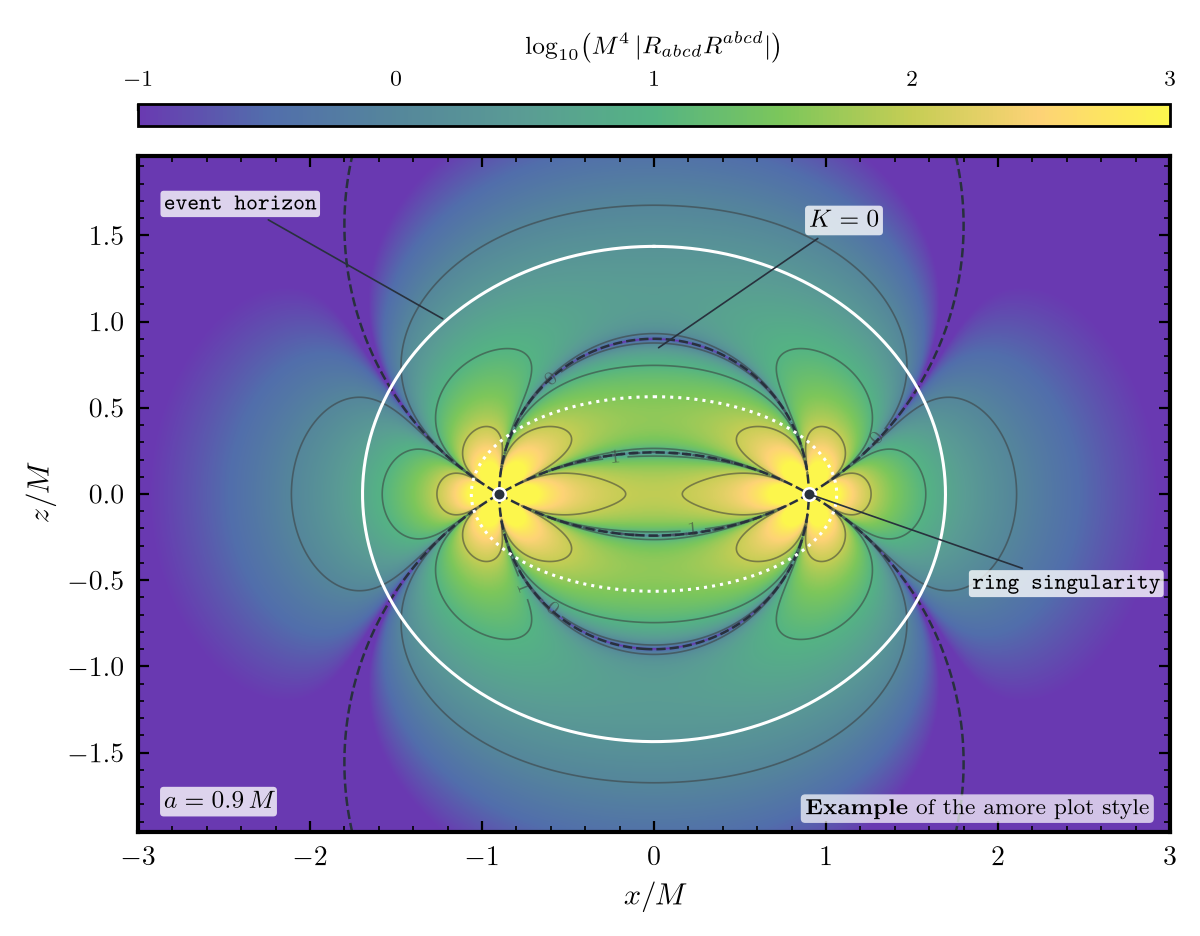
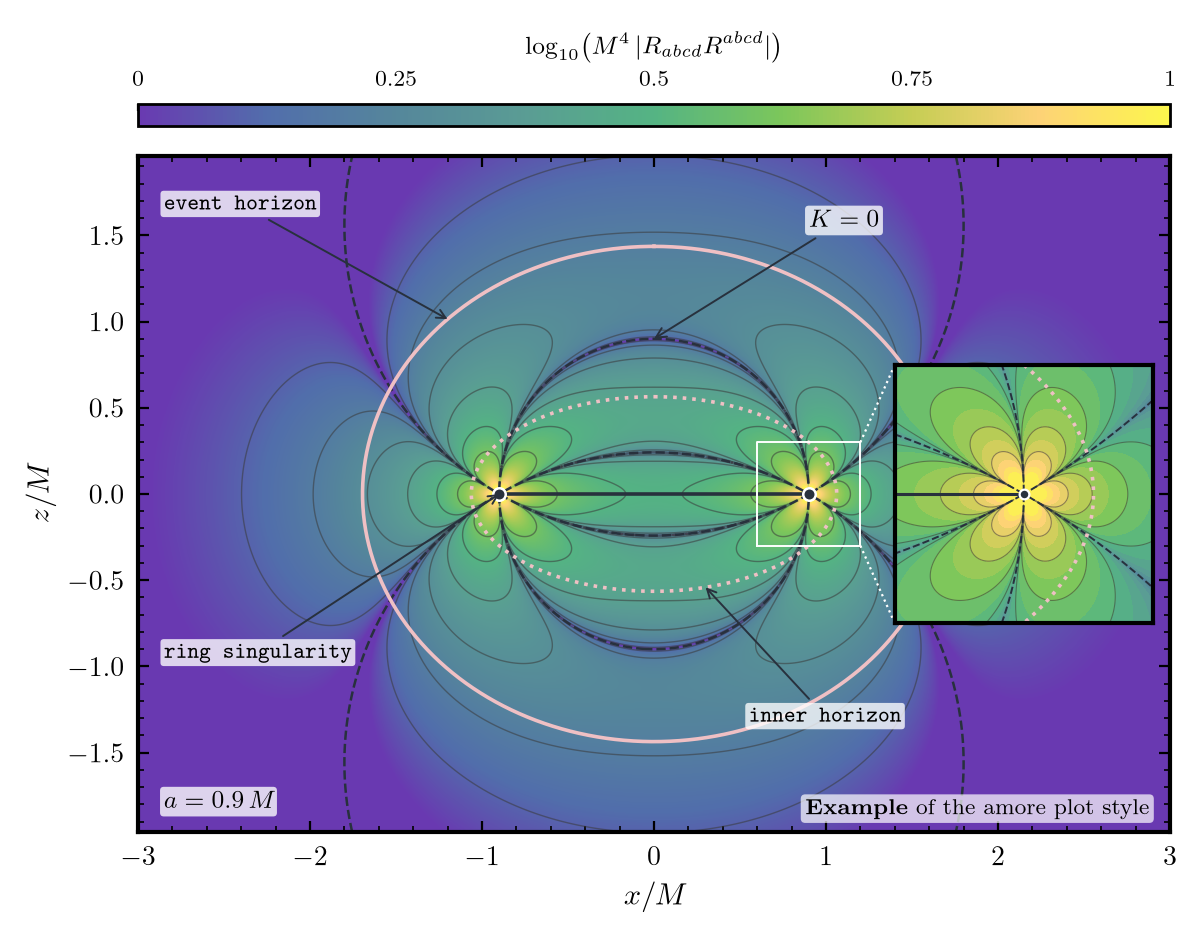
amore example: Kerr inset, shared normalised scale, labelled horizons
- Add an inset: a filled contour plot of the flower at the right ring point.
- The main map and the inset use one normalised scale (0 to 1 for log10|K|
  from -1 to 5), so one colour bar reads both.
- Draw the disk r = 0, the cause of the bends in the contours.
- Label the inner horizon. Draw both horizons in the lightest amore red.
- Point each arrow exactly at its feature. Remove the contour numbers.
- Zoom box white, connector lines white dotted.

Claude-Session: https://claude.ai/code/session_014jvk12Cx7MpCLE6J3t3DqW

diff --git a/src/python/amore/examples.py b/src/python/amore/examples.py
@@ -187,7 +187,15 @@ def kerr_curvature():
 
     in Boyer-Lindquist r and theta. The meridional plane uses x = sqrt(r^2 + a^2) sin(theta) and
     z = r cos(theta). K diverges at the ring singularity (r = 0, theta = pi/2), at x = +-a, z = 0,
-    and changes sign across the dashed curves K = 0. The density is log10 |K|.
+    and changes sign across the dashed curves K = 0. The density is log10 |K| normalised to
+    n = (log10 |K| + 1) / 6, clipped to [0, 1]: n = 0 at |K| = 10^-1 and n = 1 at |K| = 10^5. The
+    colour bar has the label log10(M^4 |R_abcd R^abcd|) and the range 0 to 1; the range shows
+    that the scale is normalised. The main map and the inset (a zoom on the right ring point)
+    share this scale, so one colour bar reads both. The thin contour lines are at n = 0.1 to 0.6
+    in the main map and n = 0.5 to 0.8 in the inset, without numbers. The pale red curves are the
+    event horizon (solid) and the inner horizon (dotted). The segment between
+    the two ring points (|x| < a, z = 0) is the disk r = 0, where the spacetime continues to the
+    sheet r < 0; the plot shows the sheet r >= 0 above and below it, so contours end on the disk.
 
     Source: R. C. Henry, "Kretschmann scalar for a Kerr-Newman black hole", ApJ 535, 350 (2000),
     arXiv:astro-ph/9912320, p. 6, with charge Q = 0; the factor (r^2 - c^2)(...) expands to his
@@ -197,41 +205,89 @@ def kerr_curvature():
     """
     spin = 0.9
     ink = amore.palette("slate")["ink"]
+    # The horizons: the lightest amore red. Red is the one hue that parula does not contain.
+    horizon = dict(color=amore.palette("red")["light"])
+
+    def kretschmann_at(x, z):
+        big = x ** 2 + z ** 2 - spin ** 2
+        r2 = 0.5 * (big + np.sqrt(big ** 2 + 4 * spin ** 2 * z ** 2))
+        c2 = np.where(r2 > 0, spin ** 2 * z ** 2 / np.maximum(r2, 1e-30), spin ** 2)  # a^2 cos^2
+        sigma = r2 + c2
+        return 48 * (r2 - c2) * (sigma ** 2 - 16 * r2 * c2) / sigma ** 6
+
+    def normalised(k):                         # log10 |K| from -1 to 5, mapped to 0 to 1
+        return np.clip((np.log10(np.abs(k) + 1e-30) + 1) / 6, 0, 1)
+
     x, z = np.meshgrid(np.linspace(-3.0, 3.0, 1000), np.linspace(-1.96, 1.96, 654))
-    big = x ** 2 + z ** 2 - spin ** 2
-    r2 = 0.5 * (big + np.sqrt(big ** 2 + 4 * spin ** 2 * z ** 2))
-    c2 = np.where(r2 > 0, spin ** 2 * z ** 2 / np.maximum(r2, 1e-30), spin ** 2)   # a^2 cos^2
-    sigma = r2 + c2
-    kretschmann = 48 * (r2 - c2) * (sigma ** 2 - 16 * r2 * c2) / sigma ** 6
-    field = np.log10(np.abs(kretschmann) + 1e-30)
+    kretschmann = kretschmann_at(x, z)
+    field = normalised(kretschmann)
 
     fig, ax = amore.figure(colorbar=True)
     image = ax.imshow(field, extent=(-3.0, 3.0, -1.96, 1.96), origin="lower", aspect="auto",
-                      cmap=amore.fakeparulapastel(), vmin=-1, vmax=3, interpolation="bilinear")
-    lines = ax.contour(x, z, field, levels=[0, 1, 2], colors=amore.OVERLAY, linewidths=0.6,
-                       alpha=amore.OVERLAY_ALPHA, linestyles="solid")
-    ax.clabel(lines, levels=[0, 1], fmt=r"$%d$", fontsize=7, inline=True)
+                      cmap=amore.fakeparulapastel(), vmin=0, vmax=1, interpolation="bilinear")
+    ax.contour(x, z, field, levels=np.arange(0.1, 0.65, 0.1), colors=amore.OVERLAY,
+                       linewidths=0.5, alpha=amore.OVERLAY_ALPHA, linestyles="solid")
     ax.contour(x, z, kretschmann, levels=[0], colors=ink, linewidths=0.9, linestyles="--")
     theta = np.linspace(0, 2 * np.pi, 400)
     for radius, style in ((1 + np.sqrt(1 - spin ** 2), "-"), (1 - np.sqrt(1 - spin ** 2), ":")):
         ax.plot(np.sqrt(radius ** 2 + spin ** 2) * np.sin(theta), radius * np.cos(theta),
-                color="white", ls=style, lw=1.1)
+                ls=style, lw=1.3, **horizon)
+    ax.plot([-spin, spin], [0, 0], color=ink, lw=1.3, solid_capstyle="butt")      # the disk r = 0
     ax.plot([-spin, spin], [0, 0], ls="none", marker="o", ms=4.5, color=ink, mec="white", mew=0.9)
     ax.set_xlim(-3.0, 3.0)
     ax.set_ylim(-1.96, 1.96)
     ax.grid(False)
     note = dict(facecolor="white", alpha=0.78, edgecolor="none", boxstyle="round,pad=0.15")
-    ax.annotate(r"\texttt{ring singularity}", xy=(spin, 0), xytext=(1.85, -0.55), fontsize=8,
-                bbox=note, arrowprops=dict(arrowstyle="-", lw=0.6, color=ink))
-    ax.annotate(r"\texttt{event horizon}", xy=(-1.2, 1.0), xytext=(-2.85, 1.65), fontsize=8,
-                bbox=note, arrowprops=dict(arrowstyle="-", lw=0.6, color=ink))
-    ax.annotate(r"$K = 0$", xy=(0.0, 0.83), xytext=(0.9, 1.55), fontsize=9, bbox=note,
-                arrowprops=dict(arrowstyle="-", lw=0.6, color=ink))
+    pointer = dict(arrowstyle="->", lw=0.7, color=ink, shrinkA=2, shrinkB=0)
+    # Each arrow ends exactly on its feature. On the spin axis (theta = 0, so z = r and c = a),
+    # K = 0 at r = a and r = a (2 +- sqrt 3); the arrow points at z = a.
+    x_h = -1.2
+    z_h = (1 + np.sqrt(1 - spin ** 2)) * np.sqrt(1 - x_h ** 2 / (2 + 2 * np.sqrt(1 - spin ** 2)))
+    ax.annotate(r"\texttt{ring singularity}", xy=(-spin, 0), xytext=(-2.85, -0.95), fontsize=8,
+                bbox=note, arrowprops=pointer)
+    ax.annotate(r"\texttt{event horizon}", xy=(x_h, z_h), xytext=(-2.85, 1.65), fontsize=8,
+                bbox=note, arrowprops=pointer)
+    ax.annotate(r"$K = 0$", xy=(0.0, spin), xytext=(0.9, 1.55), fontsize=9, bbox=note,
+                arrowprops=pointer)
+    r_minus = 1 - np.sqrt(1 - spin ** 2)                       # the inner (Cauchy) horizon
+    x_i = 0.3
+    z_i = -r_minus * np.sqrt(1 - x_i ** 2 / (r_minus ** 2 + spin ** 2))
+    ax.annotate(r"\texttt{inner horizon}", xy=(x_i, z_i), xytext=(0.55, -1.32), fontsize=8,
+                bbox=note, arrowprops=pointer)
     ax.text(-2.85, -1.82, r"$a = 0.9\,M$", fontsize=9, bbox=note)
+
+    # Zoom on the flower at the right ring point: a filled contour plot of n on the same colour
+    # scale as the main map, so the colour bar reads both. Its bands, 0.05 apart, show the
+    # gradients inside the petals.
+    zoom_x, zoom_z = (spin - 0.3, spin + 0.3), (-0.3, 0.3)
+    xi, zi = np.meshgrid(np.linspace(*zoom_x, 650), np.linspace(*zoom_z, 650))
+    k_zoom = kretschmann_at(xi, zi)
+    f_zoom = normalised(k_zoom)
+    # The inset spans x = 1.4 to 2.9 and z = -0.75 to 0.75.
+    ins = amore.inset(ax, [0.7333, 0.3087, 0.25, 0.3827], zoom_x, zoom_z)
+    ins.contourf(xi, zi, f_zoom, levels=np.linspace(0, 1, 21), cmap=amore.fakeparulapastel())
+    ins.contour(xi, zi, f_zoom, levels=[0.5, 0.6, 0.7, 0.8], colors=amore.OVERLAY,
+                linewidths=0.4, alpha=amore.OVERLAY_ALPHA, linestyles="solid")
+    ins.contour(xi, zi, k_zoom, levels=[0], colors=ink, linewidths=0.7, linestyles="--")
+    ins.plot(np.sqrt(r_minus ** 2 + spin ** 2) * np.sin(theta), r_minus * np.cos(theta),
+             ls=":", lw=1.3, **horizon)
+    ins.plot([zoom_x[0], spin], [0, 0], color=ink, lw=1.1, solid_capstyle="butt")
+    ins.plot([spin], [0], ls="none", marker="o", ms=3.5, color=ink, mec="white", mew=0.8)
+    ins.set_xticks([])
+    ins.set_yticks([])
+    ins.grid(False)
+    box = dict(color="white", lw=0.7)
+    link = dict(color="white", lw=0.8, ls=":")
+    ax.plot([zoom_x[0], zoom_x[1], zoom_x[1], zoom_x[0], zoom_x[0]],
+            [zoom_z[0], zoom_z[0], zoom_z[1], zoom_z[1], zoom_z[0]], **box)
+    for sign in (1, -1):                       # box corners to the inset corners at x = 1.4
+        ax.plot([zoom_x[1], 1.4], [sign * zoom_z[1], sign * 0.75], **link)
     ax.set_xlabel(r"$x/M$")
     ax.set_ylabel(r"$z/M$")
-    amore.colorbar(ax, image, r"$\log_{10}\bigl(M^4\,|R_{abcd}R^{abcd}|\bigr)$",
-                   ticks=[-1, 0, 1, 2, 3])
+    ticks = [0, 0.25, 0.5, 0.75, 1]
+    bar = amore.colorbar(ax, image, r"$\log_{10}\bigl(M^4\,|R_{abcd}R^{abcd}|\bigr)$",
+                         ticks=ticks)
+    bar.set_ticklabels([f"{t:g}" for t in ticks])
     amore.tag(ax, TAG, loc="lower right")
     amore.save(fig, OUT / "amore_parula", dpi=README_DPI, formats=("png",), exact_size=True)
     plt.close(fig)
